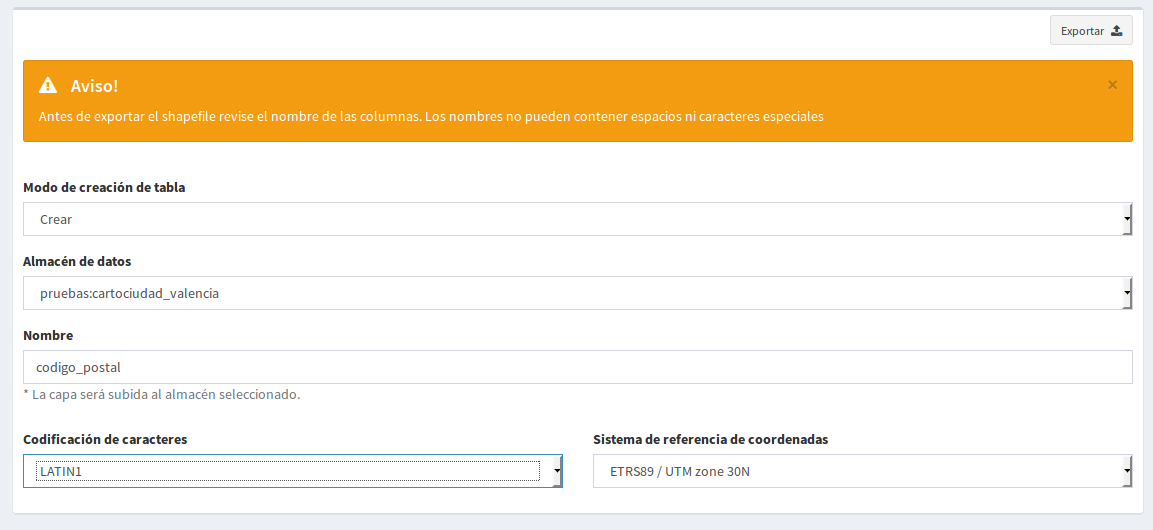
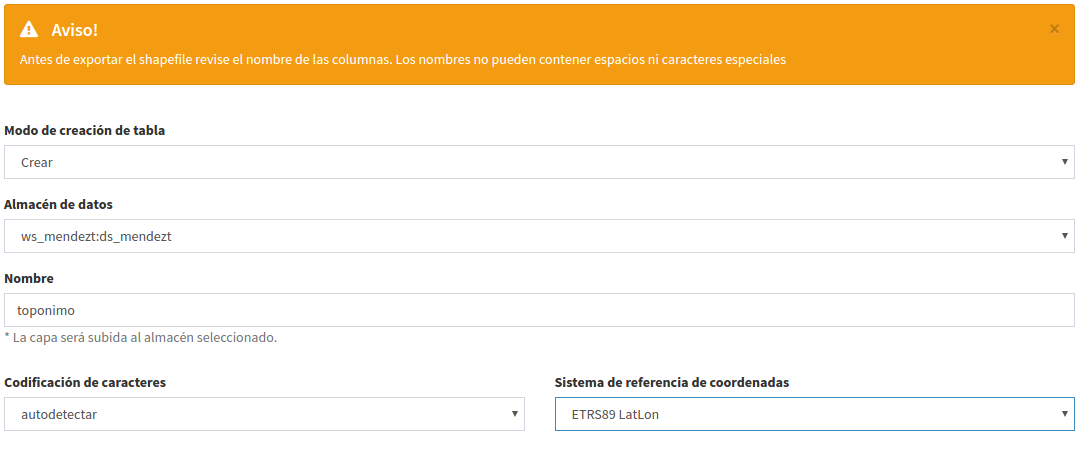
actualiazación de geocoding
git-svn-id: https://devel.scolab.eu/gvsig-online/gvsigonline_v2/trunk@2513 216424d3-d1a8-4ca4-951f-a609719bba38

diff --git a/docs/web/source/plugins/es/geocoding.rst b/docs/web/source/plugins/es/geocoding.rst
@@ -43,7 +43,7 @@ En todos ellos se les puede indicar una categoría (para englobar los resultados
 
 
 
-Servicios de Nominatim 
+Servicios de Nominatim
 ----------------------
 
 Nominatim es el motor de búsqueda para datos de OpenStreetMap. 
@@ -72,24 +72,28 @@ También requiere indicar una key de Google que dé entrada a los servicios de G
 Servicios de CartoCiudad
 ------------------------
 
-CartoCiudad ofrece la posibilidad de descargar la cartografía por regiones y poder añadirla como proveedor de datos:
-- Para ello, se tiene que ir a su 'Centro de descargas':http://centrodedescargas.cnig.es/CentroDescargas/buscadorCatalogo.do?codFamilia=02122
+CartoCiudad ofrece la posibilidad de descargar la cartografía por regiones y poder añadirla como proveedor de datos. Para ello, se tiene que ir a la página oficial del Centro Nacional de Información Geográfica (CNIG) e ingresar a su Centro de Descargas_.
+
+ .. _Centro de Descragas: http://centrodedescargas.cnig.es/CentroDescargas/buscadorCatalogo.do?codFamilia=02122
 
 - Marcar el producto 'CartoCiudad' y la división administrativa 'Provincias'. Marcar la que se requiera y descargar el ZIP.
 
 .. image:: ../_static/images/centro_descargas_1.png
    :align: center
 
-- Una vez descagado y descomprimido, se cargará en la gvsigOnline a través del 'Administrador de archivos' los recursos:
+- Una vez descagado y descomprimido, se cargará en gvsigOnline a través del 'Administrador de archivos' los recursos con sus extensiones (.shp; .dbf y .shx):
   
-  - tramo_vial.shp
-  - portal_pk.shp
-  - municipio_vial.dbf
-  - toponimo.shp
-  - codigo_postal.shp
+  - tramo_vial; 
+  - portal_pk
+  - municipio_vial.dbf (No tiene .shp)
+  - toponimo
+
   
   
-- Luego se exportarán a una base de datos a través del menú 'Exportar', en el que se marcará como nombre el mismo del fichero (sin la extensión) EN MINÚSCULAS. El encodding será 'autodetectar' y el sistema de coordenadas será 'ETRS89 / UTM zone 30N'
+- Luego se llevarán a una BD desde el 'administrador de archivos' a través de la opción 'Exportar a base de datos' de cada archivo con extensión (.shp), en el que se marcará como nombre el mismo del fichero (sin la extensión) **en minúsculas**. La *Codificación de caracteres* será: 'autodetectar' y el *sistema de coordenadas*: 'ETRS89 LatLon'
+
+.. note:: 
+   El sistema de referencia seleccionado será el que traiga por defecto las capas descargadas del CNIG en su archivo con extensión *.prj*.
 
 .. image:: ../_static/images/centro_descargas_4.png
    :align: center
@@ -101,7 +105,7 @@ CartoCiudad ofrece la posibilidad de descargar la cartografía por regiones y po
 
 Una vez realizada esta tarea, será necesario cargar la cartografía de regiones de España y los límites provinciales, por lo que habrá que repetir el proceso con los siguientes pasos:
 
-- En el centro de descarga, buscar la pestaña 'Equipamiento Geografico de Referencia Nacional'
+- En el Centro de Descargas_., seleccionar en productos *Información geográfica de referencia*: 'Lineas límite municipales' y buscamos cualquier *división dministrativa* que se quiera (Siempre serán los mismos ficheros para todos, ya que contienen toda la información de Península y Baleares de toda España)
 
 .. image:: ../_static/images/centro_descargas_2.png
    :align: center
@@ -111,27 +115,41 @@ Una vez realizada esta tarea, será necesario cargar la cartografía de regiones
 .. image:: ../_static/images/centro_descargas_3.png
    :align: center
 
-- Cargar en el 'Administrador de archivos' y exportar las capas:
+- El fichero comprimido desacargado contiene diversas carpetas, de las cuales solo usaremos las dos siguientes:
+
+  - recintos_municipales_inspire_peninbal_etr89 
+  - recintos_provinciales_inspire_peninbal_etr89
+
+- Cargar en el 'Administrador de archivos' la capa que contiene cada carpeta con sus extensiones correspondientes (.shp; .dbf y .shx).
   
-  - Dentro de 'recintos_municipales_inspire_peninbal_etr89' la capa que existe, a la que exportaremos con el nombre 'municipio', encoding 'autodetectar' y sistema de coordenadas será 'ETRS89 / UTM zone 30N'
-  - Dentro de 'recintos_provinciales_inspire_peninbal_etr89', exportar con el nombre 'provincia', encoding 'autodetectar' y sistema de coordenadas será 'ETRS89 / UTM zone 30N'
+- De la carpeta **recintos_municipales_inspire_peninbal_etr89** exportaremos a la BD el fichero (.shp) con el nombre '**municipio**', *Codificación de caracteres*: 'autodetectar' y *sistema de coordenadas*: 'ETRS89 LatLon'
+- y de la carpeta **recintos_provinciales_inspire_peninbal_etr89**, exportaremos a la BD el otro fichero (.shp) con el nombre '**provincia**', *Codificación de caracteres*: 'autodetectar' y *sistema de coordenadas*: 'ETRS89 LatLon'
   
-Por último, para dar de alta el proveedor, será necesario indicar el almacén de datos en el que se han exportado todas las capas indicadas. (NOTA: en esta opción no se ofrece la posibilidad de seleccionar icono, ya que disponen de los suyos propios para identificar las calles, toponimos, municipios y demás entidades que se indexan a través de este servicio.)
+.. note::
+   Tanto las capas anteriores como éstas de 'líneas límites municipales' deben exportarse en el mismo almacén de la base de datos y *No es necesario hacer públicas éstas capas en el visor de mapas*.  
+  
+- Por último, para dar de alta el proveedor, se ingresa con la entrada **Geocoding** del menú y se elige el *tipo de proveedor*: 'Cartografía de CartoCiudad', será necesario indicar el almacén de datos en el que se han exportado todas las capas indicadas.
+
+.. note::
+   Cuando se ñade este proveedor de Cartociudad *no* se ofrece la posibilidad de seleccionar icono, ya que disponen de los suyos propios para identificar las calles, toponimos, municipios y demás entidades que se indexan a través de este servicio.
 
 
+- Una vez se ha dado de alta correctamente el proveedor, se redirige a la página que permite cargar los datos en el sistema. Existen dos opciones:
 
-Una vez se ha dado de alta correctamente el proveedor, se redirige a la página que permite cargar los datos en el sistema. Existen dos opciones:
-
-- Carga total: borra los datos anteriores de ese proveedor (si los hubiera), y los sube de nuevo
-- Carga parcial: Sube sólo las entidades actualizadas desde la última vez que se cargaron datos (las entidades borradas no se eliminarán, sólo las actualizadas).
+  - **Carga total**: borra los datos anteriores de ese proveedor (si los hubiera), y los sube de nuevo.
+  - **Carga parcial**: Sube sólo las entidades actualizadas desde la última vez que se cargaron datos (las entidades borradas no se eliminarán, sólo las actualizadas).
  
 
   
 Otros servicios del usuario
 ---------------------------
 
-Por otro lado, se pueden incluir en el geocodificador otros resultados procedentes de capas propias (se requiere que la capa haya sido publicada en el geoportal)
-Se precisará:
+Por otro lado, se pueden incluir en el geocodificador otros resultados procedentes de capas propias.
+
+.. note::
+   Se requiere que la capa haya sido publicada en algún proyecto - geoportal.
+   
+Se precisará:   
 
   - El espacio de trabajo
   - El almacén de datos
@@ -140,5 +158,5 @@ Se precisará:
   - El campo que contiene el texto que se buscará por el geocodificador
   - El nombre del campo que contiene la geometría
     
-Igual que ocurría con los servicios de Cartociudad, una vez definido el proveedor, habrá que hacer una carga total de los datos para que el geocodificador empiece a incluirlos en los resultados de las búsquedas
+Igual que ocurría con los servicios de Cartociudad, una vez definido el proveedor, habrá que hacer una carga total de los datos para que el geocodificador empiece a incluirlos en los resultados de las búsquedas.
   

diff --git a/docs/mobile/source/es/intro.rst b/docs/mobile/source/es/intro.rst
@@ -13,7 +13,7 @@ La pantalla principal contiene diversas secciones. Las más relevantes para trab
    :align: center
    
 *  **1. Administrador de capa base**: Se podrá configurar la capa de fondo que tendrá el mapa por defecto. Al pinchar en |capa_base|, se podrá buscar las capas disponibles con el |plus| (ubicado de la esquina inferior derecha). 
-     Estas capas estan incluidas en el almacenamiento de la app y tienen la extención (.mapurl). Por ejemplo, seleccionar la capa base del PNOA.
+     Estas capas estan incluidas en el almacenamiento de la app y tienen la extención (.mapurl). Por ejemplo, seleccionar capa base del PNOA.
 
 .. |capa_base| image:: ../images/boton_01.png
      
